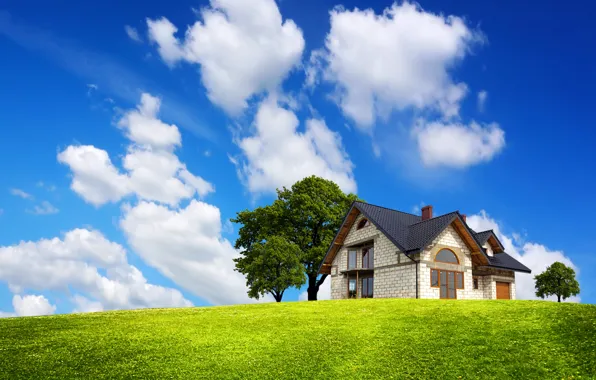
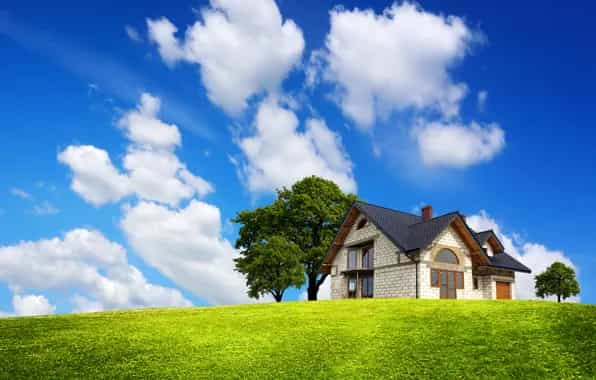
ll

diff --git a/style.css b/style.css
@@ -67,7 +67,7 @@ html {
   width: 1100px;
   height: 650px;
   background-color: green;
-  background-image: url(https://img.goodfon.ru/wallpaper/big/0/5b/pole-zelen-trava-dom-derevya.jpg),
+  background-image: url(./photos/pole-zelen-trava-dom-derevya.jpg),
     url(./photos/green-png-44873.jpg), url(./photos/lamp-png-34914.jpg),
     url(https://vignette.wikia.nocookie.net/mashaandthebear/images/e/e0/%D0%81%D0%B6%D0%B8%D0%BA.png/revision/latest?cb=20180209130328&path-prefix=ru),
     url(https://avatanplus.com/files/resources/mid/58eb07b830eab15b56162788.png);
